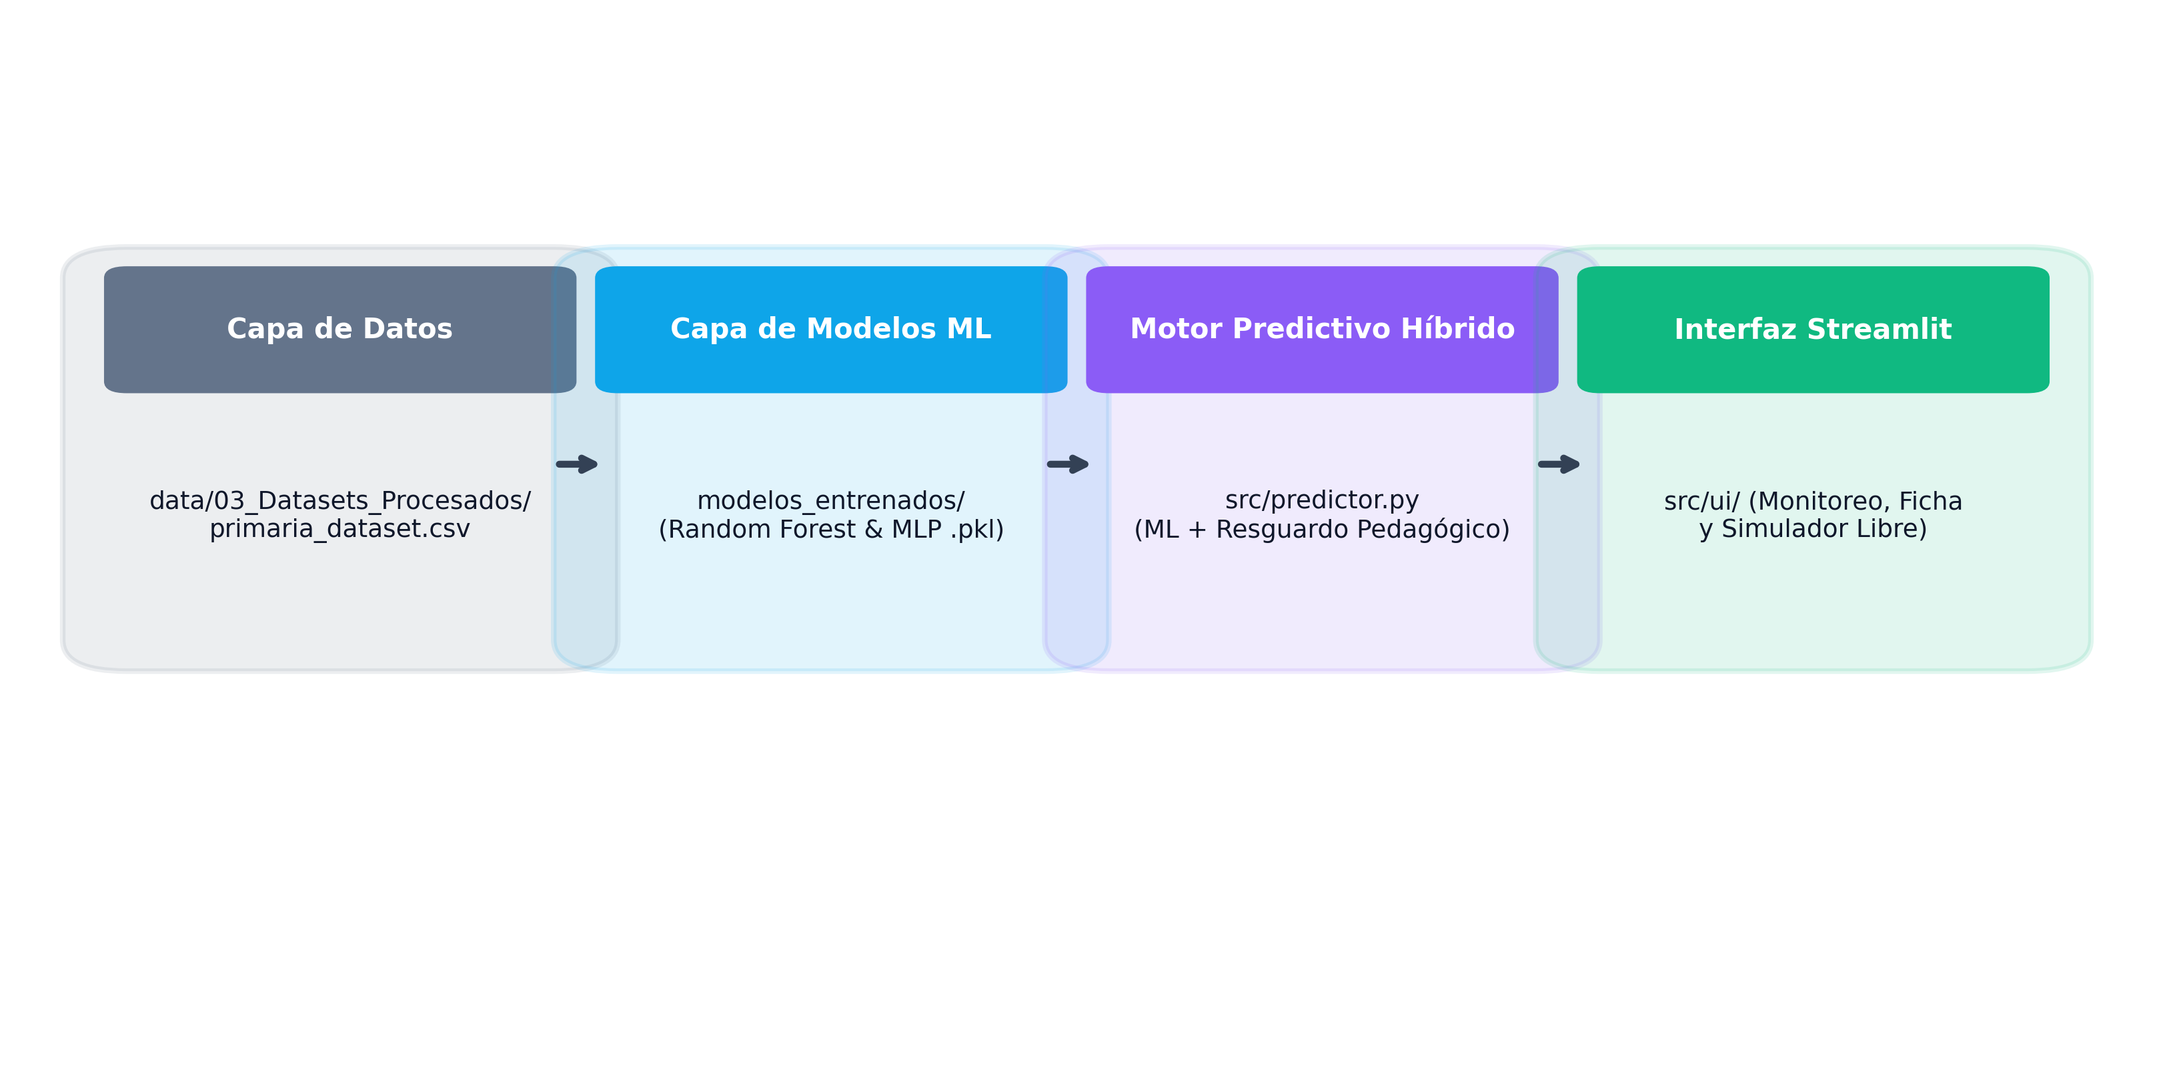
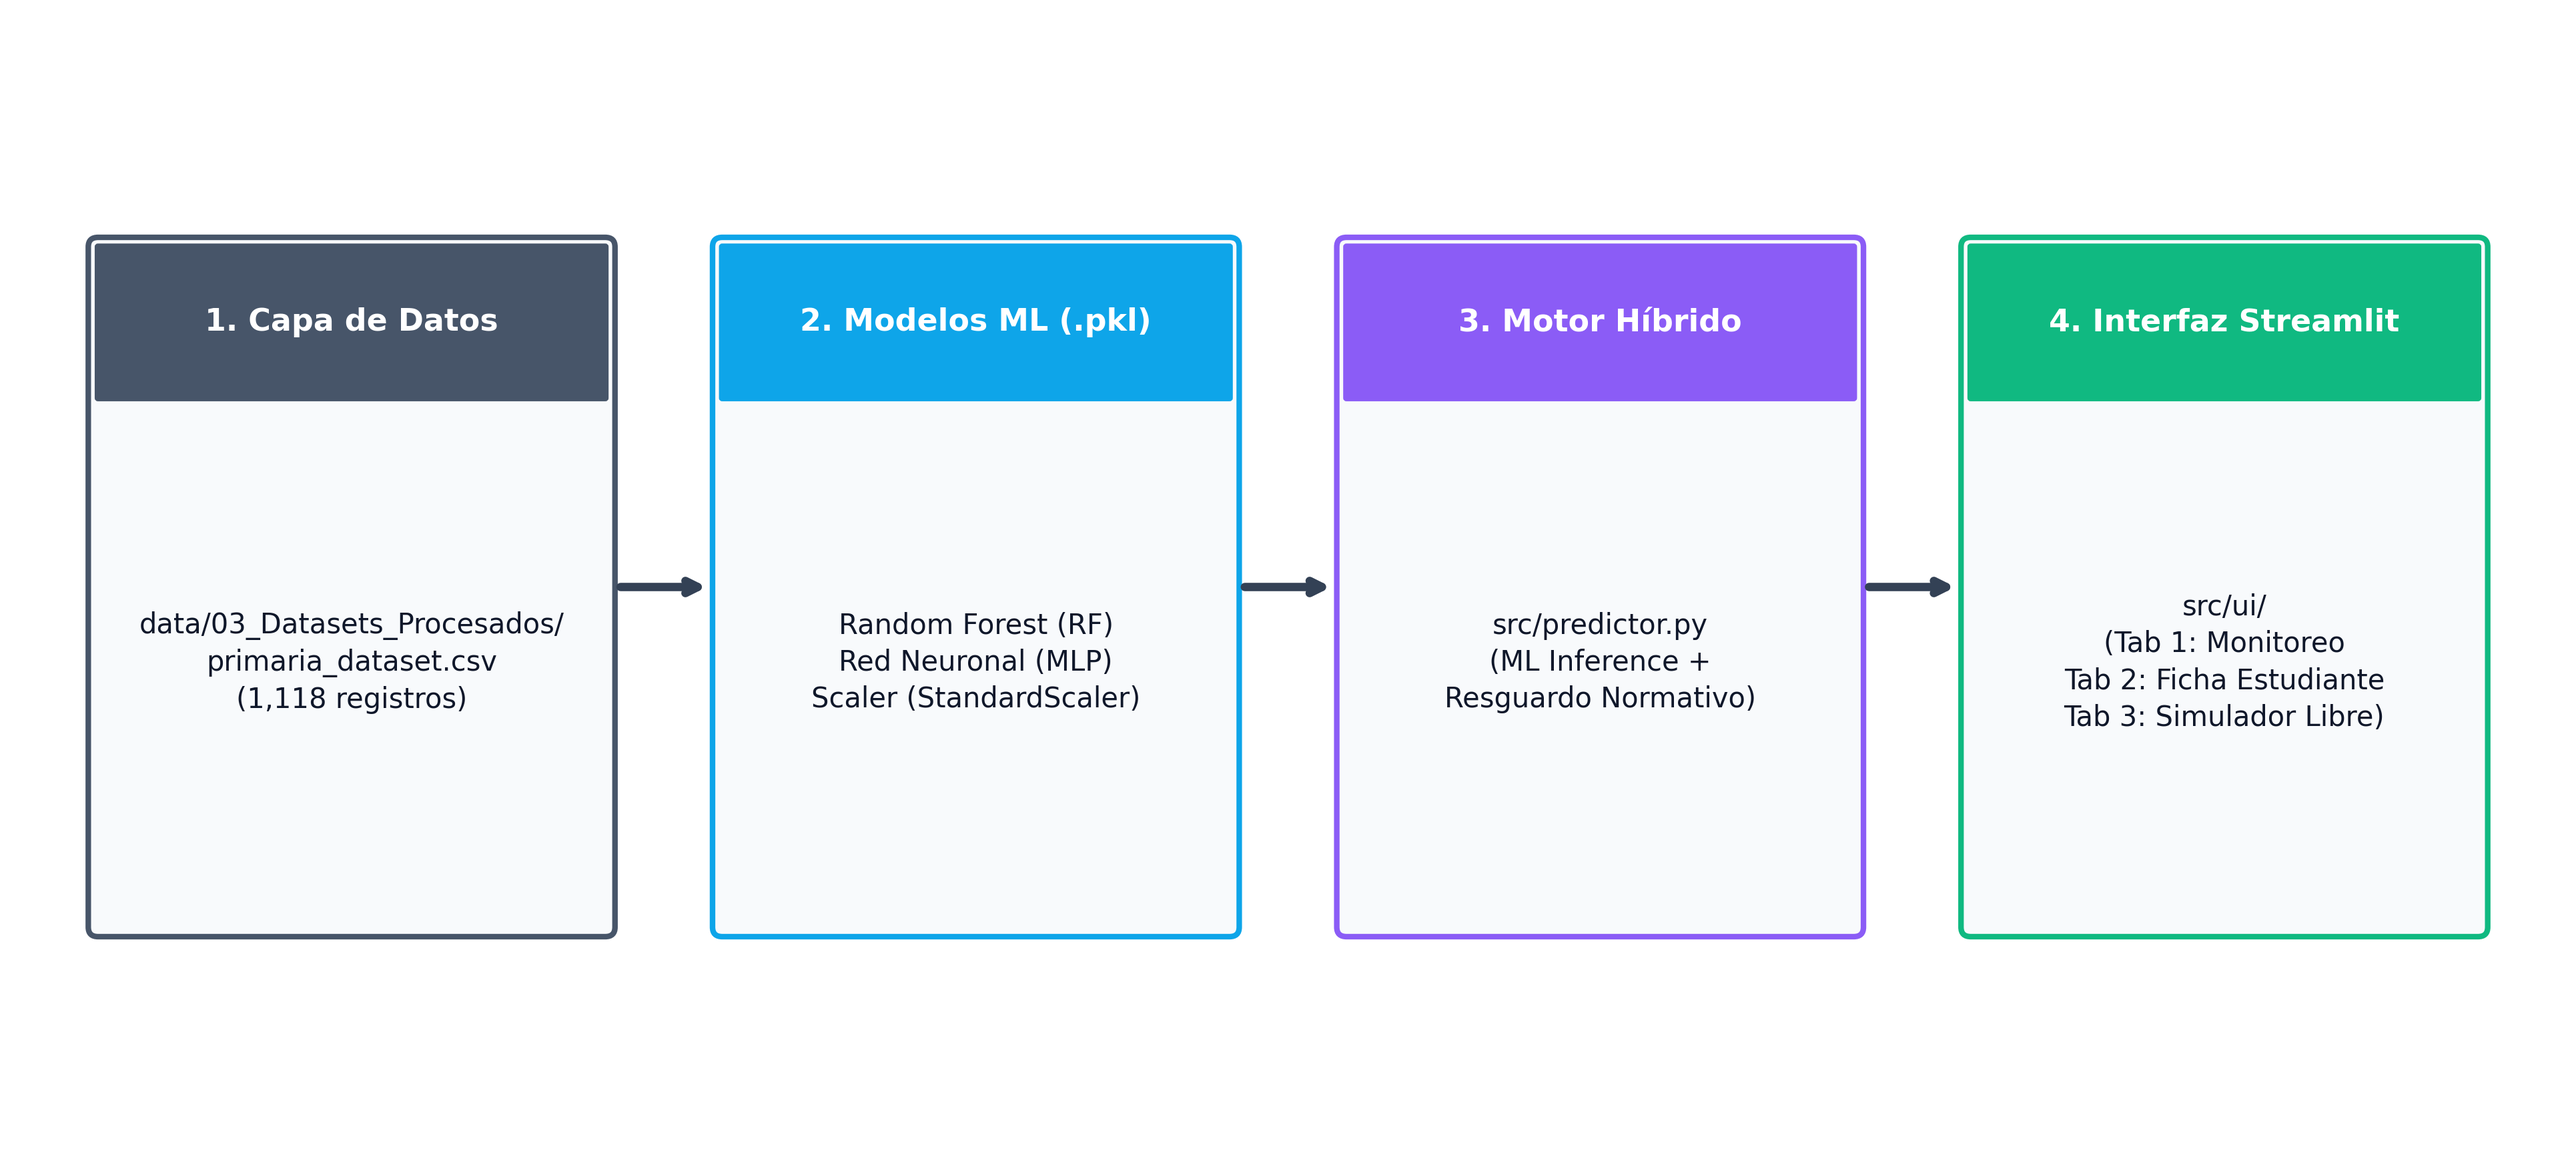
docs: rediseño profesional de diagramas metodológicos y de arquitectura (Serie 3)

diff --git a/scripts/generate_all_figures.py b/scripts/generate_all_figures.py
@@ -43,103 +43,162 @@ nombres_materias = {
 # FIGURA 3.1: FLUJOGRAMA METODOLÓGICO CRISP-DM ADAPTADO
 # ==============================================================================
 def gen_fig_3_1():
-    fig, ax = plt.subplots(figsize=(10, 5.5), dpi=300)
+    fig, ax = plt.subplots(figsize=(12, 7), dpi=300)
     ax.axis('off')
+    ax.set_xlim(0, 10)
+    ax.set_ylim(0, 6)
     
     phases = [
-        ("1. Comprensión del Negocio", "Definición de rezago (nota < 51)\ny entorno U.E. Santiváñez", "#1E3A8A"),
-        ("2. Comprensión de Datos", "Consolidación de 36 boletines PDF\ny 1,118 registros de primaria", "#2563EB"),
-        ("3. Preparación de Datos", "Limpieza de nulos, feature shift\n(prev/next) e imputación", "#3B82F6"),
-        ("4. Modelado Predictivo", "Entrenamiento Decision Tree, RF\n(class_weight='balanced') y MLP", "#0284C7"),
-        ("5. Evaluación & Segregación", "Partición estratificada, matrices\ny umbrales Alto/Medio/Bajo", "#0D9488"),
-        ("6. Despliegue de Prototipo", "Aplicación web Streamlit con\nCapa Híbrida de Resguardo", "#059669")
+        ("Fase 1: Comprensión del Negocio", "Definición del rezago (nota < 51)\ny contexto U.E. Santiváñez", "#1E3A8A", (0.5, 3.8)),
+        ("Fase 2: Comprensión de Datos", "Consolidación de 36 boletines PDF\ny 1,118 registros históricos", "#2563EB", (3.6, 3.8)),
+        ("Fase 3: Preparación de Datos", "Limpieza de nulos, feature shift\n(prev/next) e imputación", "#3B82F6", (6.7, 3.8)),
+        ("Fase 6: Despliegue de Prototipo", "Aplicación web Streamlit con\nCapa Híbrida de Resguardo", "#059669", (0.5, 0.8)),
+        ("Fase 5: Evaluación & Segregación", "Partición estratificada, matrices\ny umbrales Alto/Medio/Bajo", "#0D9488", (3.6, 0.8)),
+        ("Fase 4: Modelado Predictivo", "Entrenamiento Decision Tree, RF\n(class_weight='balanced') y MLP", "#0284C7", (6.7, 0.8))
     ]
     
-    for i, (title, desc, color) in enumerate(phases):
-        row = i // 2
-        col = i % 2
-        x = 0.05 + col * 0.48
-        y = 0.70 - row * 0.30
+    for title, desc, color, (x, y) in phases:
+        # Container Box
+        box = mpatches.FancyBboxPatch((x, y), 2.8, 1.6, boxstyle="round,pad=0.04", 
+                                      ec=color, fc='#F8FAFC', lw=2)
+        ax.add_patch(box)
         
-        rect = mpatches.FancyBboxPatch((x, y), 0.42, 0.22, boxstyle="round,pad=0.03", 
-                                       ec=color, fc=color, alpha=0.1, lw=2)
-        ax.add_patch(rect)
+        # Header Banner
+        banner = mpatches.FancyBboxPatch((x, y + 1.15), 2.8, 0.45, boxstyle="round,pad=0.01", 
+                                         ec=color, fc=color, lw=1)
+        ax.add_patch(banner)
         
-        title_box = mpatches.FancyBboxPatch((x, y + 0.15), 0.42, 0.07, boxstyle="round,pad=0.01", 
-                                            ec=color, fc=color, lw=1)
-        ax.add_patch(title_box)
-        
-        ax.text(x + 0.21, y + 0.185, title, color='white', weight='bold', fontsize=11, ha='center', va='center')
-        ax.text(x + 0.21, y + 0.07, desc, color='#1F2937', fontsize=9.5, ha='center', va='center')
-        
+        # Text
+        ax.text(x + 1.4, y + 1.37, title, color='white', weight='bold', fontsize=10, ha='center', va='center')
+        ax.text(x + 1.4, y + 0.60, desc, color='#0F172A', fontsize=9.5, ha='center', va='center', multialignment='center')
+
+    # Connecting Arrows for CRISP-DM Cycle
+    # Top row left-to-right
+    ax.annotate('', xy=(3.5, 4.6), xytext=(3.4, 4.6), arrowprops=dict(arrowstyle="->", color="#475569", lw=2.5))
+    ax.annotate('', xy=(6.6, 4.6), xytext=(6.5, 4.6), arrowprops=dict(arrowstyle="->", color="#475569", lw=2.5))
+    
+    # Right side top-to-bottom
+    ax.annotate('', xy=(8.1, 2.5), xytext=(8.1, 3.7), arrowprops=dict(arrowstyle="->", color="#475569", lw=2.5))
+    
+    # Bottom row right-to-left
+    ax.annotate('', xy=(6.5, 1.6), xytext=(6.6, 1.6), arrowprops=dict(arrowstyle="->", color="#475569", lw=2.5))
+    ax.annotate('', xy=(3.4, 1.6), xytext=(3.5, 1.6), arrowprops=dict(arrowstyle="->", color="#475569", lw=2.5))
+    
     plt.tight_layout()
     plt.savefig(os.path.join(FIG_DIR, "fig_3_1_flujograma_crisp_dm.png"), dpi=300, bbox_inches='tight')
     plt.close()
-    print("Generated fig_3_1_flujograma_crisp_dm.png (Clean title)")
+    print("Generated fig_3_1_flujograma_crisp_dm.png (Redesigned)")
 
 # ==============================================================================
 # FIGURA 3.2: ARQUITECTURA DE SOFTWARE DEL PROTOTIPO
 # ==============================================================================
 def gen_fig_3_2():
-    fig, ax = plt.subplots(figsize=(11, 5.5), dpi=300)
+    fig, ax = plt.subplots(figsize=(13, 6), dpi=300)
     ax.axis('off')
+    ax.set_xlim(0, 13)
+    ax.set_ylim(0, 6)
     
     components = [
-        ("Capa de Datos", "data/03_Datasets_Procesados/\nprimaria_dataset.csv", "#64748B", 0.05, 0.4),
-        ("Capa de Modelos ML", "modelos_entrenados/\n(Random Forest & MLP .pkl)", "#0EA5E9", 0.28, 0.4),
-        ("Motor Predictivo Híbrido", "src/predictor.py\n(ML + Resguardo Pedagógico)", "#8B5CF6", 0.51, 0.4),
-        ("Interfaz Streamlit", "src/ui/ (Monitoreo, Ficha\ny Simulador Libre)", "#10B981", 0.74, 0.4)
+        ("1. Capa de Datos", "data/03_Datasets_Procesados/\nprimaria_dataset.csv\n(1,118 registros)", "#475569", 0.4),
+        ("2. Modelos ML (.pkl)", "Random Forest (RF)\nRed Neuronal (MLP)\nScaler (StandardScaler)", "#0EA5E9", 3.6),
+        ("3. Motor Híbrido", "src/predictor.py\n(ML Inference +\nResguardo Normativo)", "#8B5CF6", 6.8),
+        ("4. Interfaz Streamlit", "src/ui/\n(Tab 1: Monitoreo\nTab 2: Ficha Estudiante\nTab 3: Simulador Libre)", "#10B981", 10.0)
     ]
     
-    for title, desc, color, x, y in components:
-        rect = mpatches.FancyBboxPatch((x, y), 0.20, 0.35, boxstyle="round,pad=0.03", ec=color, fc=color, alpha=0.12, lw=2)
-        ax.add_patch(rect)
+    for title, desc, color, x in components:
+        # Container Box
+        box = mpatches.FancyBboxPatch((x, 1.2), 2.6, 3.6, boxstyle="round,pad=0.05", 
+                                      ec=color, fc='#F8FAFC', lw=2)
+        ax.add_patch(box)
         
-        header = mpatches.FancyBboxPatch((x, y + 0.25), 0.20, 0.10, boxstyle="round,pad=0.01", ec=color, fc=color, lw=1)
-        ax.add_patch(header)
+        # Header Banner
+        banner = mpatches.FancyBboxPatch((x, 4.0), 2.6, 0.8, boxstyle="round,pad=0.01", 
+                                         ec=color, fc=color, lw=1)
+        ax.add_patch(banner)
         
-        ax.text(x + 0.10, y + 0.30, title, color='white', weight='bold', fontsize=10, ha='center', va='center')
-        ax.text(x + 0.10, y + 0.12, desc, color='#0F172A', fontsize=9, ha='center', va='center')
+        # Text inside
+        ax.text(x + 1.3, 4.4, title, color='white', weight='bold', fontsize=11, ha='center', va='center')
+        ax.text(x + 1.3, 2.6, desc, color='#0F172A', fontsize=10, ha='center', va='center', multialignment='center', linespacing=1.4)
         
-    for x_arrow in [0.255, 0.485, 0.715]:
-        ax.annotate('', xy=(x_arrow + 0.02, 0.57), xytext=(x_arrow - 0.005, 0.57),
-                    arrowprops=dict(arrowstyle="->", color="#334155", lw=2.5))
+    # Flow Arrows between stages
+    for x_arrow in [3.1, 6.3, 9.5]:
+        ax.annotate('', xy=(x_arrow + 0.45, 3.0), xytext=(x_arrow - 0.05, 3.0),
+                    arrowprops=dict(arrowstyle="->", color="#334155", lw=3.0))
         
     plt.tight_layout()
     plt.savefig(os.path.join(FIG_DIR, "fig_3_2_arquitectura_software.png"), dpi=300, bbox_inches='tight')
     plt.close()
-    print("Generated fig_3_2_arquitectura_software.png (Clean title)")
+    print("Generated fig_3_2_arquitectura_software.png (Redesigned)")
 
 # ==============================================================================
 # FIGURA 3.3: FLUJO DE LA CAPA DE RESGUARDO PEDAGÓGICO
 # ==============================================================================
 def gen_fig_3_3():
-    fig, ax = plt.subplots(figsize=(10, 6), dpi=300)
+    fig, ax = plt.subplots(figsize=(13, 8.5), dpi=300)
     ax.axis('off')
+    ax.set_xlim(0, 13)
+    ax.set_ylim(0, 9)
     
-    boxes = [
-        ("Entrada Estudiante", "Promedio General & N° Materias Reprobadas", 0.35, 0.80, "#3B82F6"),
-        ("Inferencia Modelo ML", "Calcula Probabilidad Base P_ML (RF / MLP)", 0.35, 0.62, "#8B5CF6"),
-        ("Evaluación de Reglas de Resguardo", "¿Promedio < 51 ó Reprobadas >= 2?", 0.35, 0.42, "#F59E0B"),
-        ("SI: Ajuste Normativo", "P_final = max(P_ML, 0.85) -> ALTO RIESGO", 0.05, 0.20, "#EF4444"),
-        ("NO: Evaluación Secundaria", "¿Reprobadas == 1 ó 51 <= Prom < 60?", 0.65, 0.42, "#3B82F6"),
-        ("SI: Alerta Media", "P_final = max(P_ML, 0.50) -> MEDIO RIESGO", 0.45, 0.20, "#F59E0B"),
-        ("NO: Salida Estándar", "P_final = P_ML -> BAJO RIESGO", 0.75, 0.20, "#10B981")
-    ]
+    # 1. Start Node
+    box_start = mpatches.FancyBboxPatch((4.2, 7.3), 4.6, 1.1, boxstyle="round,pad=0.04", ec="#2563EB", fc="#EFF6FF", lw=2)
+    ax.add_patch(box_start)
+    ax.text(6.5, 7.85, "Entrada del Estudiante\n(Promedio General & N° Materias Reprobadas)", ha='center', va='center', weight='bold', color='#1E3A8A', fontsize=10.5)
     
-    for title, desc, x, y, color in boxes:
-        w, h = (0.30, 0.12)
-        rect = mpatches.FancyBboxPatch((x, y), w, h, boxstyle="round,pad=0.02", ec=color, fc=color, alpha=0.15, lw=2)
-        ax.add_patch(rect)
-        hdr = mpatches.FancyBboxPatch((x, y + h - 0.04), w, 0.04, boxstyle="round,pad=0.005", ec=color, fc=color)
-        ax.add_patch(hdr)
-        ax.text(x + w/2, y + h - 0.02, title, color='white', weight='bold', fontsize=9, ha='center', va='center')
-        ax.text(x + w/2, y + (h-0.04)/2, desc, color='#0F172A', fontsize=8.5, ha='center', va='center')
+    # 2. ML Inference Node
+    box_ml = mpatches.FancyBboxPatch((4.2, 5.5), 4.6, 1.1, boxstyle="round,pad=0.04", ec="#8B5CF6", fc="#F5F3FF", lw=2)
+    ax.add_patch(box_ml)
+    ax.text(6.5, 6.05, "Inferencia de Modelo Machine Learning\n(Calcula Probabilidad Base P_ML)", ha='center', va='center', weight='bold', color='#5B21B6', fontsize=10.5)
+    
+    # Arrow Start -> ML
+    ax.annotate('', xy=(6.5, 6.6), xytext=(6.5, 7.3), arrowprops=dict(arrowstyle="->", color="#334155", lw=2.5))
+    
+    # 3. Decision Node 1
+    box_d1 = mpatches.FancyBboxPatch((3.8, 3.6), 5.4, 1.3, boxstyle="round,pad=0.04", ec="#F59E0B", fc="#FFFBEB", lw=2.5)
+    ax.add_patch(box_d1)
+    ax.text(6.5, 4.25, "¿Promedio < 51.0  Ó  N° Reprobadas ≥ 2?", ha='center', va='center', weight='bold', color='#92400E', fontsize=11)
+    
+    # Arrow ML -> D1
+    ax.annotate('', xy=(6.5, 4.9), xytext=(6.5, 5.5), arrowprops=dict(arrowstyle="->", color="#334155", lw=2.5))
+    
+    # YES Branch (Left) -> ALTO RIESGO
+    ax.annotate('', xy=(2.0, 2.7), xytext=(4.2, 3.6), arrowprops=dict(arrowstyle="->", color="#EF4444", lw=2.5))
+    ax.text(2.6, 3.3, "SÍ", color='#DC2626', weight='bold', fontsize=12)
+    
+    box_alto = mpatches.FancyBboxPatch((0.5, 1.0), 3.0, 1.7, boxstyle="round,pad=0.04", ec="#EF4444", fc="#FEF2F2", lw=2.5)
+    ax.add_patch(box_alto)
+    ax.text(2.0, 1.85, "🔴 ALTO RIESGO\n\nP_final = max(P_ML, 0.85)\nIntervención Prioritaria", ha='center', va='center', weight='bold', color='#991B1B', fontsize=10.5, linespacing=1.3)
+
+    # NO Branch (Right) -> Decision Node 2
+    ax.annotate('', xy=(6.5, 2.7), xytext=(6.5, 3.6), arrowprops=dict(arrowstyle="->", color="#2563EB", lw=2.5))
+    ax.text(6.7, 3.15, "NO", color='#2563EB', weight='bold', fontsize=12)
+    
+    # 4. Decision Node 2
+    box_d2 = mpatches.FancyBboxPatch((4.3, 1.0), 4.4, 1.7, boxstyle="round,pad=0.04", ec="#3B82F6", fc="#EFF6FF", lw=2)
+    ax.add_patch(box_d2)
+    ax.text(6.5, 1.85, "¿Reprobadas == 1  Ó\n51.0 ≤ Promedio < 60.0?", ha='center', va='center', weight='bold', color='#1E40AF', fontsize=10.5)
+    
+    # Branch 2 YES (Top Right) -> MEDIO RIESGO
+    ax.annotate('', xy=(9.4, 2.6), xytext=(8.7, 2.2), arrowprops=dict(arrowstyle="->", color="#F59E0B", lw=2.5))
+    ax.text(9.0, 2.6, "SÍ", color='#D97706', weight='bold', fontsize=11)
+    
+    box_medio = mpatches.FancyBboxPatch((9.4, 2.0), 3.1, 1.5, boxstyle="round,pad=0.04", ec="#F59E0B", fc="#FFFBEB", lw=2.5)
+    ax.add_patch(box_medio)
+    ax.text(10.95, 2.75, "🟡 MEDIO RIESGO\n\nP_final = max(P_ML, 0.50)\nSeguimiento Bimensual", ha='center', va='center', weight='bold', color='#B45309', fontsize=10, linespacing=1.3)
+
+    # Branch 2 NO (Bottom Right) -> BAJO RIESGO
+    ax.annotate('', xy=(9.4, 0.8), xytext=(8.7, 1.3), arrowprops=dict(arrowstyle="->", color="#10B981", lw=2.5))
+    ax.text(9.0, 0.9, "NO", color='#059669', weight='bold', fontsize=11)
+    
+    box_bajo = mpatches.FancyBboxPatch((9.4, 0.1), 3.1, 1.5, boxstyle="round,pad=0.04", ec="#10B981", fc="#ECFDF5", lw=2.5)
+    ax.add_patch(box_bajo)
+    ax.text(10.95, 0.85, "🟢 BAJO RIESGO\n\nP_final = P_ML\nAcompañamiento Estándar", ha='center', va='center', weight='bold', color='#065F46', fontsize=10, linespacing=1.3)
 
     plt.tight_layout()
     plt.savefig(os.path.join(FIG_DIR, "fig_3_3_capa_hibrida_resguardo.png"), dpi=300, bbox_inches='tight')
     plt.close()
-    print("Generated fig_3_3_capa_hibrida_resguardo.png (Clean title)")
+    print("Generated fig_3_3_capa_hibrida_resguardo.png (Redesigned & Clean)")
+
+
 
 # ==============================================================================
 # FIGURA 4.1: TASA DE REPROBACIÓN POR MATERIA
